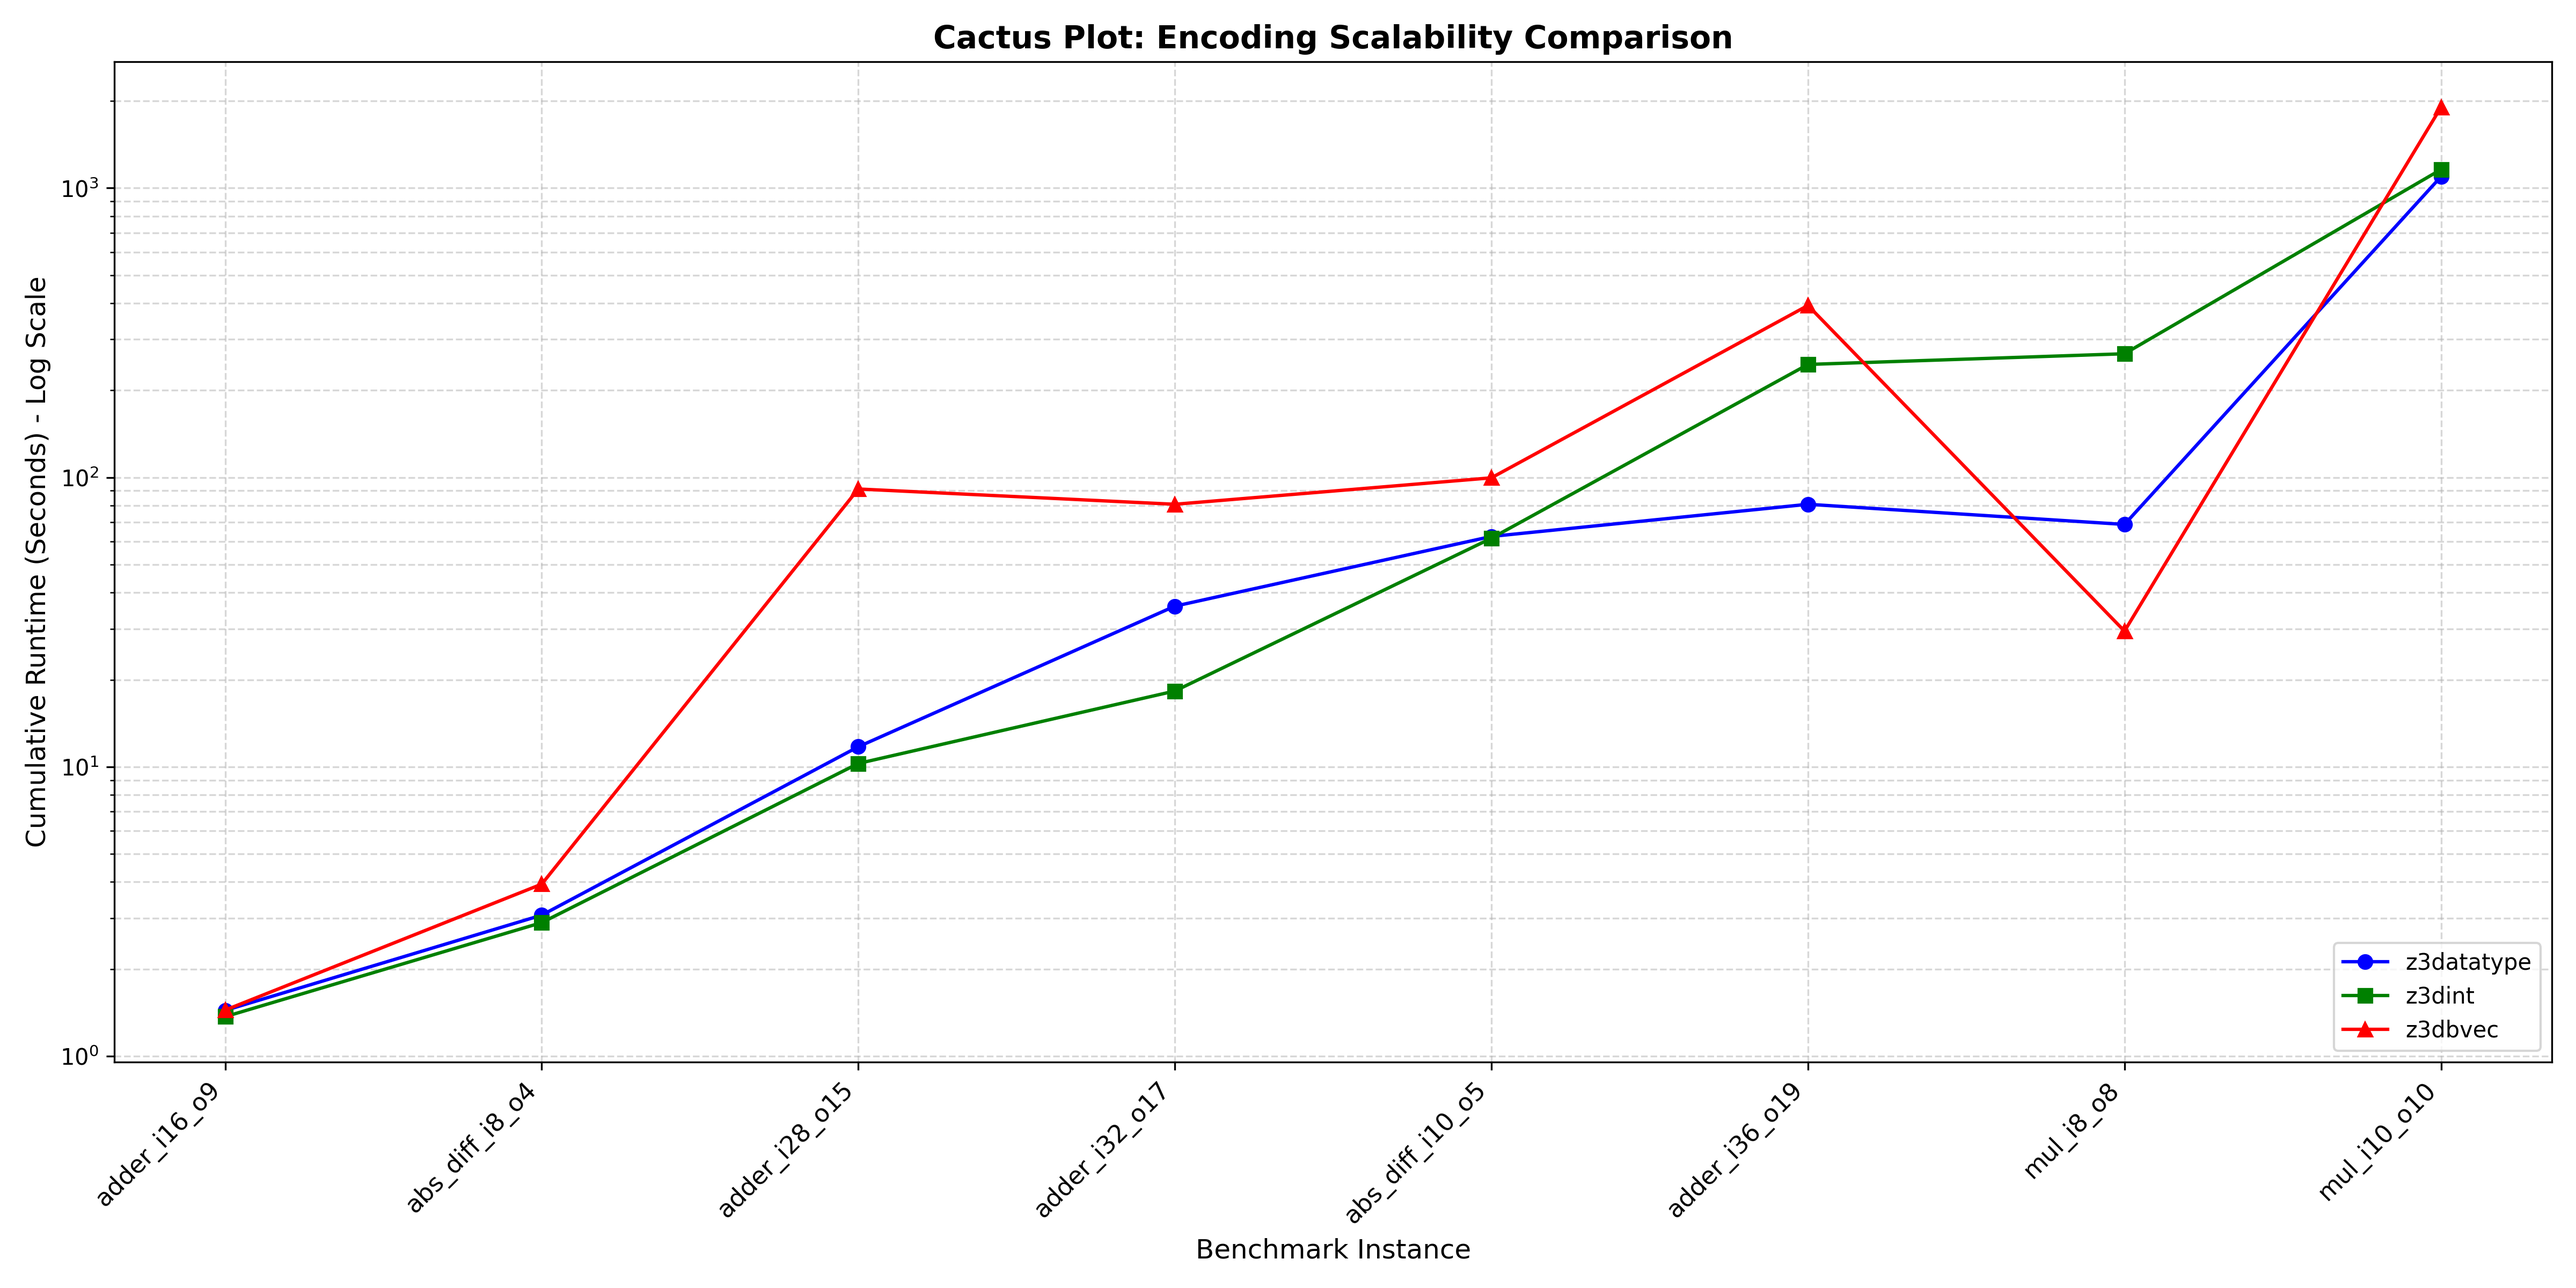
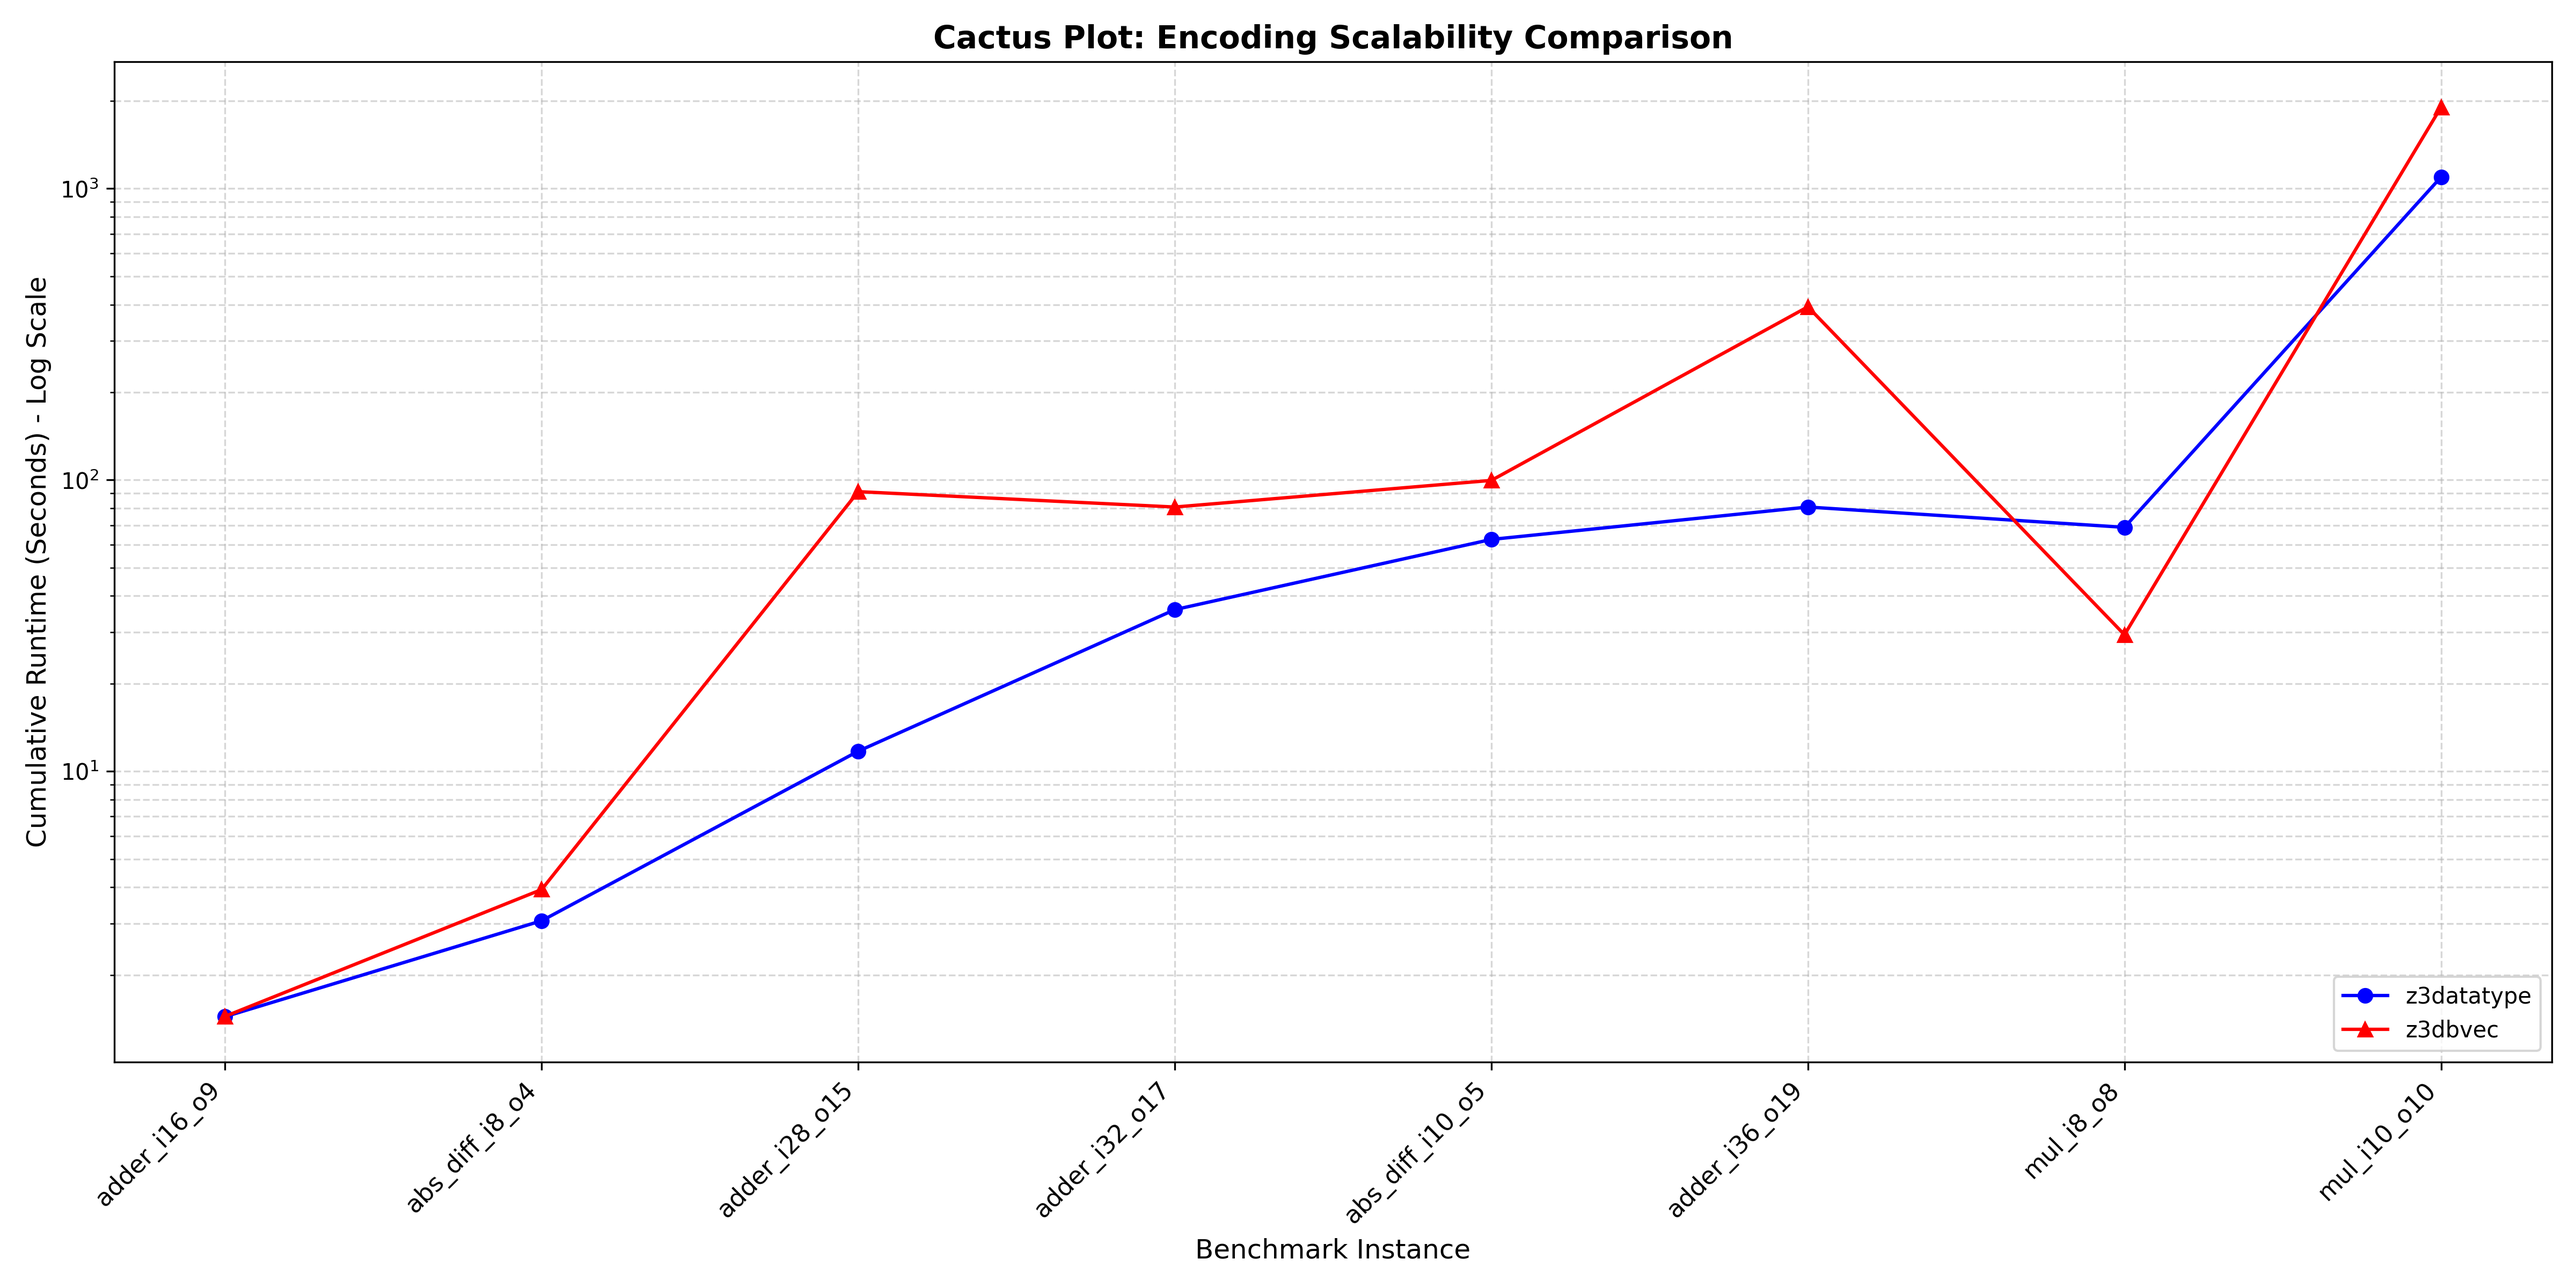
#211: add plot image

diff --git a/sxpat/docs/datatype_encoder/plot_cactus.py b/sxpat/docs/datatype_encoder/plot_cactus.py
@@ -62,7 +62,7 @@ plt.figure(figsize=(16, 8))
 
 # Plot Mode 5 Encodings
 plt.plot(x_m5, m5_z3datatype, marker='o', linestyle='-', color='blue', label='z3datatype')
-plt.plot(x_m5, m5_z3dint, marker='s', linestyle='-', color='green', label='z3dint')
+#plt.plot(x_m5, m5_z3dint, marker='s', linestyle='-', color='green', label='z3dint')
 plt.plot(x_m5, m5_z3dbvec, marker='^', linestyle='-', color='red', label='z3dbvec')
 
 # 4. Formatting the Graph
